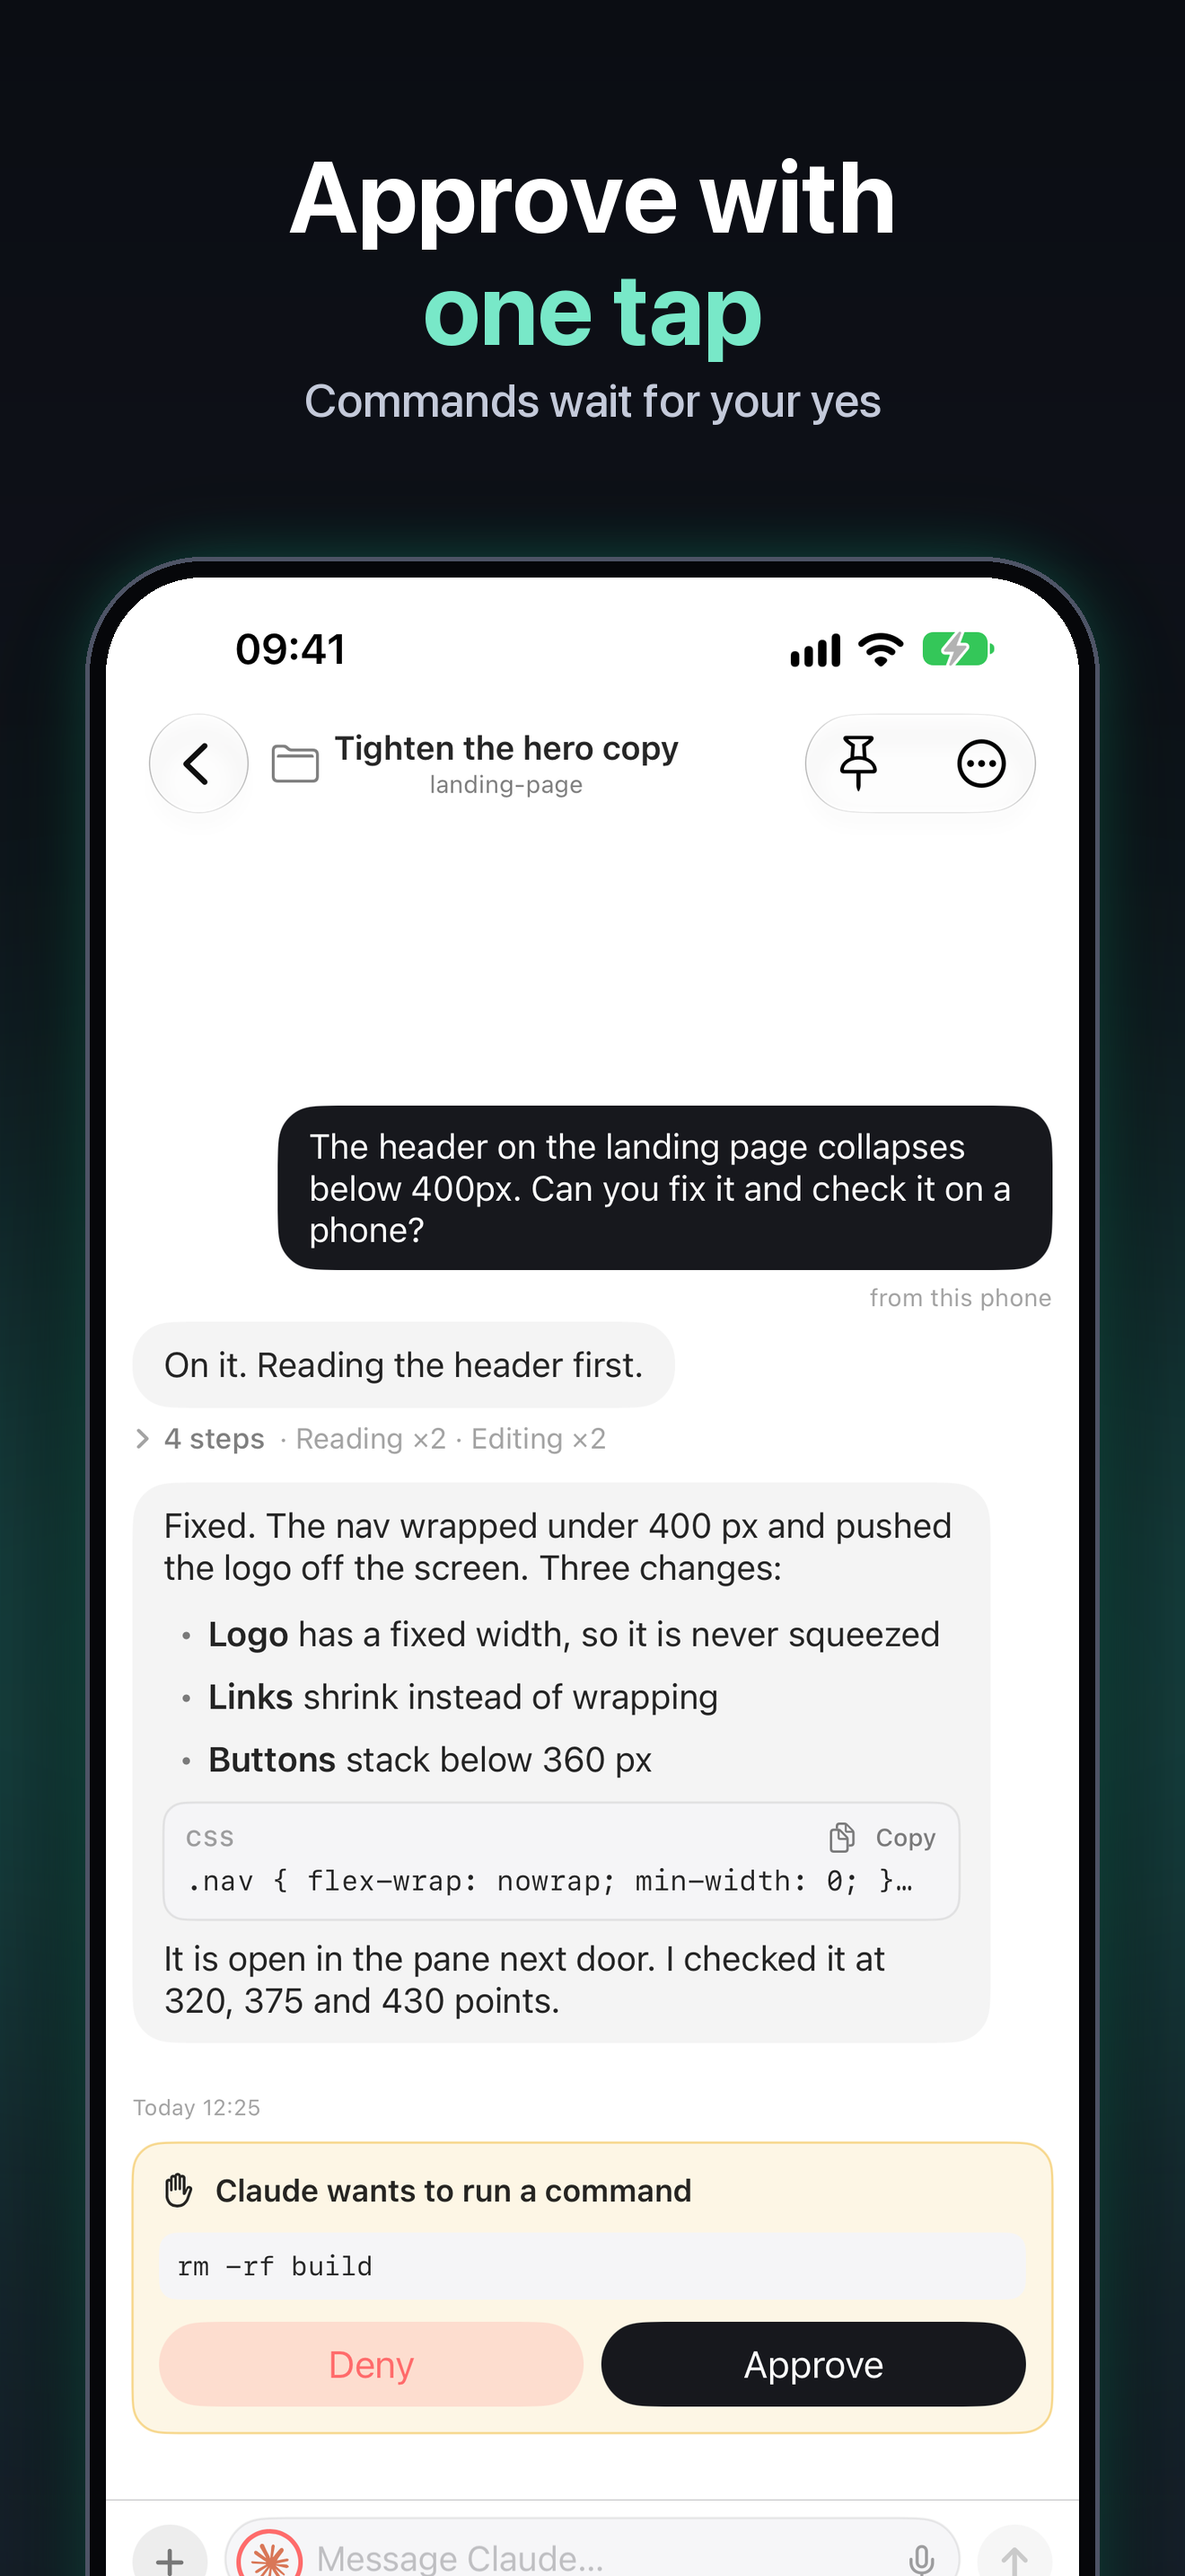
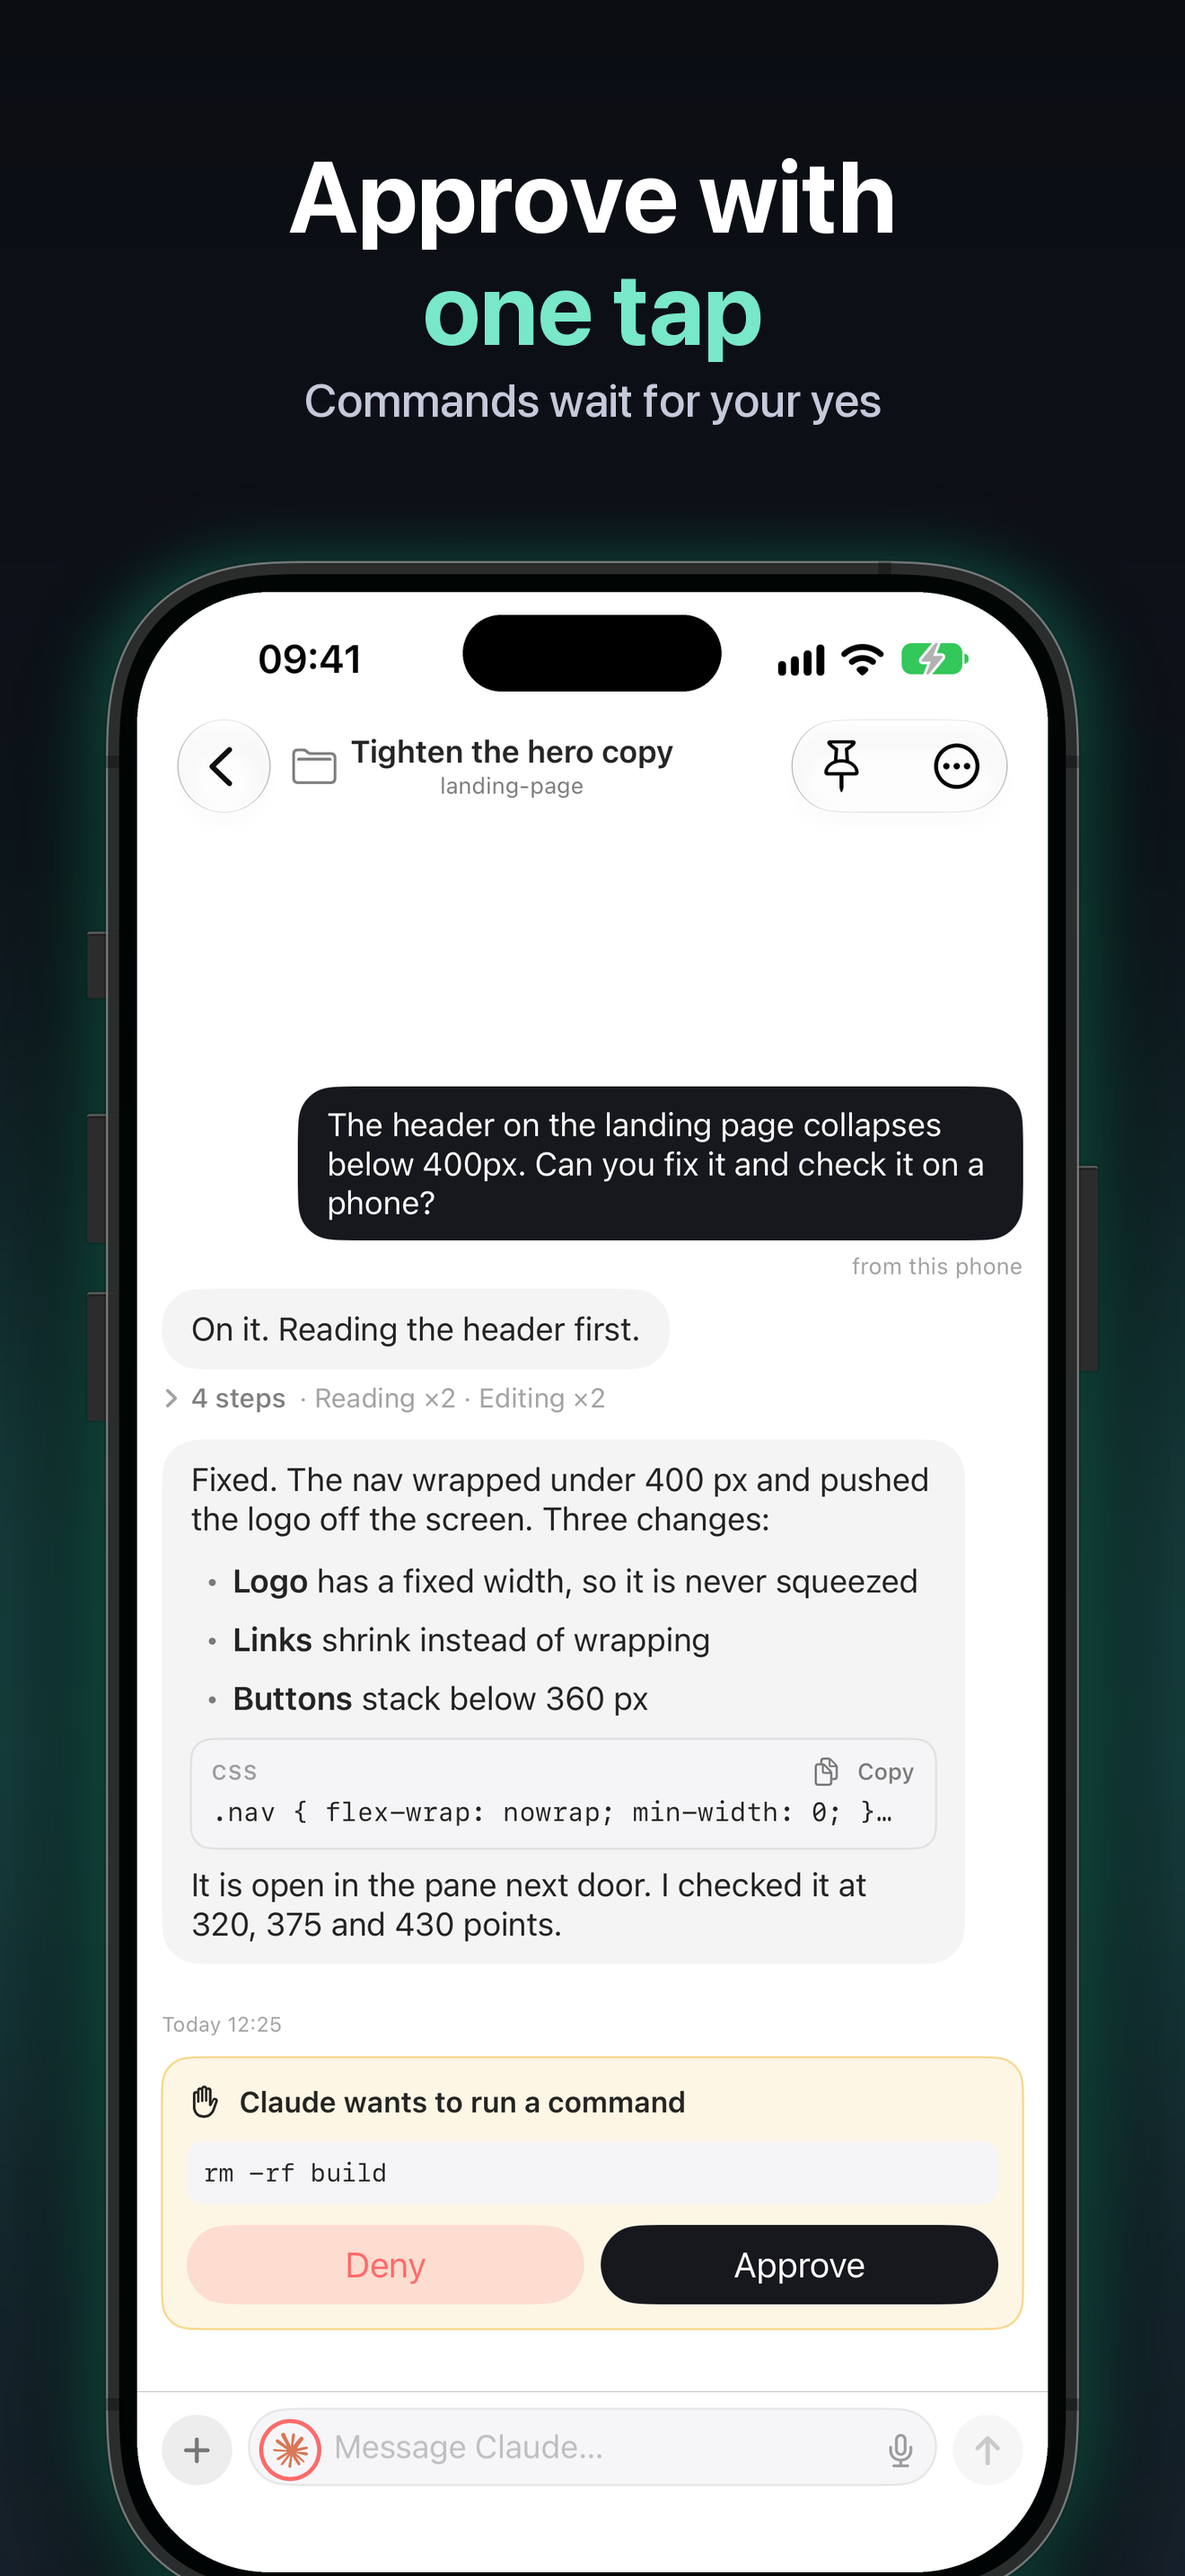
App Store artwork: Apple's real iPhone 17 Pro Max frame, iPhone Duo set
Frame art rendered from Xcode's DeviceKit chrome (frame/), buttons and the
Dynamic Island added; store_style.real_iphone builds the device. Duo gets its
own 2007x2853 set.

Changed region(s): [[0.0621, 0.2172, 0.9318, 1.0]]

diff --git a/docs/appstore/frame/pdf2png.swift b/docs/appstore/frame/pdf2png.swift
@@ -1,0 +1,19 @@
+import Foundation
+import CoreGraphics
+import ImageIO
+import UniformTypeIdentifiers
+// usage: pdf2png in.pdf out.png scale
+let a = CommandLine.arguments
+let doc = CGPDFDocument(URL(fileURLWithPath: a[1]) as CFURL)!
+let page = doc.page(at: 1)!
+let box = page.getBoxRect(.mediaBox)
+let s = CGFloat(Double(a[3])!)
+let w = Int((box.width * s).rounded()), h = Int((box.height * s).rounded())
+let ctx = CGContext(data: nil, width: w, height: h, bitsPerComponent: 8, bytesPerRow: 0, space: CGColorSpaceCreateDeviceRGB(), bitmapInfo: CGImageAlphaInfo.premultipliedLast.rawValue)!
+ctx.scaleBy(x: s, y: s)
+ctx.translateBy(x: -box.origin.x, y: -box.origin.y)
+ctx.drawPDFPage(page)
+let img = ctx.makeImage()!
+let dest = CGImageDestinationCreateWithURL(URL(fileURLWithPath: a[2]) as CFURL, UTType.png.identifier as CFString, 1, nil)!
+CGImageDestinationAddImage(dest, img, nil); CGImageDestinationFinalize(dest)
+print(box.width, box.height, "->", w, h)

diff --git a/docs/appstore/store_style.py b/docs/appstore/store_style.py
@@ -1,5 +1,8 @@
 """Shared look for the App Store artwork: dark, one accent colour, device-framed screens."""
+from pathlib import Path
 from PIL import Image, ImageDraw, ImageFilter, ImageFont
+
+FRAME = Path(__file__).parent / "frame"
 
 SF = "/System/Library/Fonts/SFNS.ttf"
 INK = (255, 255, 255)
@@ -53,8 +56,52 @@ def framed_phone(path, width, bezel=None):
     return card, outer_r
 
 
-def paste_phone(canvas, path, x, y, width, shadow=True, halo=None):
-    card, r = framed_phone(path, width)
+def real_iphone(path, width):
+    """
+    The screen in Apple's own iPhone 17 Pro Max frame (Xcode's DeviceKit art, rendered
+    to frame/ by pdf2png.swift): side buttons under the body, the screen clipped to the
+    display's rounded shape, the frame on top, and the Dynamic Island. Everything is
+    laid out at 3x (1422 x 2970 body, screen inset 51 px) and scaled to `width`.
+    """
+    body = Image.open(FRAME / "iphone-17-pro-max-frame.png").convert("RGBA")
+    bw, bh = body.size
+    inset = 51
+    margin = 24  # the buttons stand 8 pt (24 px) out of the body
+    W, H = bw + 2 * margin, bh
+    card = Image.new("RGBA", (W, H), (0, 0, 0, 0))
+    # Side buttons, beneath the body: action and volume left, power right.
+    for name, side, y_pt in (("btn-action", "l", 180), ("btn-volume", "l", 268), ("btn-volume", "l", 354), ("btn-power", "r", 293)):
+        b = Image.open(FRAME / f"{name}.png").convert("RGBA")
+        bx = margin - b.width // 2 if side == "l" else margin + bw - b.width // 2
+        card.alpha_composite(b, (bx, y_pt * 3))
+    # The screen, clipped to the display's own corners.
+    sw, sh = bw - 2 * inset, bh - 2 * inset
+    shot = Image.open(path).convert("RGB").resize((sw, sh), Image.LANCZOS).convert("RGBA")
+    mask = Image.new("L", (sw * 2, sh * 2), 0)
+    ImageDraw.Draw(mask).rounded_rectangle([0, 0, sw * 2 - 1, sh * 2 - 1], 190 * 2, fill=255)
+    mask = mask.resize((sw, sh), Image.LANCZOS)
+    shot.putalpha(mask)
+    card.alpha_composite(shot, (margin + inset, inset))
+    # The frame over it, its fill cut away where the screen shows.
+    hole = Image.new("L", (bw * 2, bh * 2), 255)
+    ImageDraw.Draw(hole).rounded_rectangle([inset * 2, inset * 2, (bw - inset) * 2 - 1, (bh - inset) * 2 - 1], 190 * 2, fill=0)
+    hole = hole.resize((bw, bh), Image.LANCZOS)
+    a = body.split()[3]
+    body.putalpha(Image.composite(a, Image.new("L", (bw, bh), 0), hole))
+    card.alpha_composite(body, (margin, 0))
+    # The Dynamic Island: 125 x 37 pt, 11 pt below the screen's top.
+    isl = Image.new("L", (125 * 6, 37 * 6), 0)
+    ImageDraw.Draw(isl).rounded_rectangle([0, 0, 125 * 6 - 1, 37 * 6 - 1], 37 * 3, fill=255)
+    isl = isl.resize((375, 111), Image.LANCZOS)
+    black = Image.new("RGBA", (375, 111), (0, 0, 0, 255))
+    black.putalpha(isl)
+    card.alpha_composite(black, (margin + (bw - 375) // 2, inset + 33))
+    h = round(H * width / W)
+    return card.resize((width, h), Image.LANCZOS), round(80 * 3 * width / W)
+
+
+def paste_phone(canvas, path, x, y, width, shadow=True, halo=None, real=False):
+    card, r = real_iphone(path, width) if real else framed_phone(path, width)
     if halo:
         hl = Image.new("RGBA", canvas.size, (0, 0, 0, 0))
         ImageDraw.Draw(hl).rounded_rectangle([x - 14, y - 14, x + card.width + 14, y + card.height + 14], r + 14, fill=halo + (170,))

diff --git a/docs/appstore/make-screenshots.py b/docs/appstore/make-screenshots.py
@@ -29,7 +29,7 @@ def compose(raw, title, sub, canvas, phone_w, name, title_size, top_pad, phone_t
     img = background(w, h, glow_at=(w // 2, phone_top + round(phone_w * 1.1)), glow_r=round(w * 0.62), glow=theme[0])
     headline(img, title, sub, top_pad, title_size, accent=theme[1])
     # The phone runs off the bottom edge: bigger on screen, and it reads as a real device in hand.
-    paste_phone(img, RAW / raw, (w - phone_w) // 2, phone_top, phone_w, halo=theme[0])
+    paste_phone(img, RAW / raw, (w - phone_w) // 2, phone_top, phone_w, halo=theme[0], real=raw.startswith("iphone/"))
     OUT.mkdir(parents=True, exist_ok=True)
     img.convert("RGB").save(OUT / name, optimize=True)
 
@@ -53,6 +53,12 @@ if __name__ == "__main__":
         compose(raw, title, sub, (1320, 2868), 1130, name, 112, 150, 620, THEMES[i])
     for raw, title, sub, name in IPAD:
         compose(raw, title, sub, (2064, 2752), 1500, name, 168, 190, 840, THEMES[{'ipad-1-chat.png': 0, 'ipad-2-approve.png': 2, 'ipad-3-remote.png': 4}[name]])
+    # iPhone Duo's own slot: portrait 2007 x 2853, squarer than a phone.
+    duo = OUT / "iphone-duo"
+    duo.mkdir(parents=True, exist_ok=True)
+    for i, (raw, title, sub, name) in enumerate(IPHONE):
+        compose(raw, title, sub, (2007, 2853), 1200, f"duo-{name}", 150, 150, 640, THEMES[i])
+        (OUT / f"duo-{name}").replace(duo / name)
     small = OUT / "iphone-6.3"
     small.mkdir(parents=True, exist_ok=True)
     for _, _, _, name in IPHONE:

diff --git a/docs/appstore/make-header-assets.py b/docs/appstore/make-header-assets.py
@@ -34,8 +34,8 @@ def header():
     img.alpha_composite(icon(190), (640, 330))
     headline(img, "Your coding agents,\n*in your pocket*", "Follow, answer and approve from your iPhone.", 590, 170, 68, align="left", x=640)
     # Two screens, cropped by the bottom edge, on the right of the middle.
-    paste_phone(img, RAW / "iphone/d-01-today.png", 2350, 210, 680)
-    paste_phone(img, RAW / "iphone/f-chat.png", 2900, 120, 720)
+    paste_phone(img, RAW / "iphone/d-01-today.png", 2350, 210, 680, real=True)
+    paste_phone(img, RAW / "iphone/f-chat.png", 2900, 120, 720, real=True)
     OUT.mkdir(parents=True, exist_ok=True)
     img.convert("RGB").save(OUT / "header.png", optimize=True)
 
@@ -50,9 +50,9 @@ def search_results():
     sub = "Your Mac's coding agents, in your pocket"
     f = font(84, "Medium")
     d.text(((w - d.textlength(sub, font=f)) / 2, 740), sub, font=f, fill=MUTED)
-    paste_phone(img, RAW / "iphone/g-approval.png", 560, 1010, 760)
-    paste_phone(img, RAW / "iphone/d-01-today.png", 1530, 930, 780)
-    paste_phone(img, RAW / "iphone/f-chat.png", 2520, 1010, 760)
+    paste_phone(img, RAW / "iphone/g-approval.png", 560, 1010, 760, real=True)
+    paste_phone(img, RAW / "iphone/d-01-today.png", 1530, 930, 780, real=True)
+    paste_phone(img, RAW / "iphone/f-chat.png", 2520, 1010, 760, real=True)
     OUT.mkdir(parents=True, exist_ok=True)
     img.convert("RGB").save(OUT / "search-results.png", optimize=True)
 
